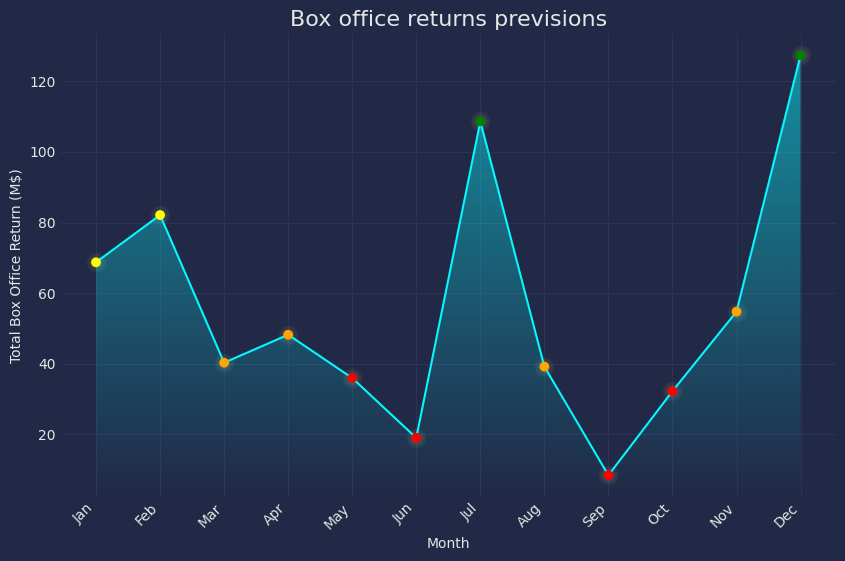
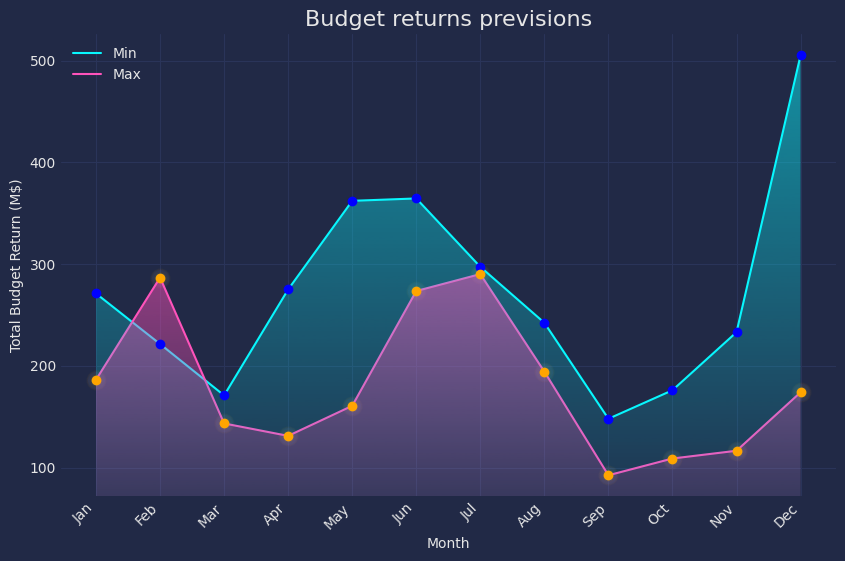
integrating budget into web application

diff --git a/src/Deploy/8_deploy_model.py b/src/Deploy/8_deploy_model.py
@@ -1,8 +1,10 @@
 import os
 import json 
 import joblib
+import hashlib
 import numpy as np
 import mplcyberpunk
+from datetime import datetime
 import matplotlib.pyplot as plt
 from sklearn.decomposition import PCA
 
@@ -33,7 +35,7 @@ def load_model_from_joblib(file_path):
         print(f"Error loading the model from {file_path}: {e}")
         return None
 
-def encode_categorical_features(true_features, json_filename='src/Deploy/column_names.json'):
+def encode_categorical_features(true_features, json_filename='/workspaces/8INF972_Atelier_pratique_AI/src/Deploy/column_names.json'):
     # Load all_features from the JSON file
     with open(json_filename, 'r') as json_file:
         all_features = json.load(json_file)
@@ -64,45 +66,49 @@ def scale_numerical_inputs(numerical_inputs):
 
     return scaled_array
 
-def plot_box_office_returns(box_office_values):
+def plot_budget_returns(budget_min, budget_max):
     # Assuming you have 12 months in a year
     months = ["Jan", "Feb", "Mar", "Apr", "May", "Jun", "Jul", "Aug", "Sep", "Oct", "Nov", "Dec"]
 
-    # Check if the length of the input list matches the number of months
-    if len(box_office_values) != len(months):
+    # Check if the length of the input lists matches the number of months
+    if len(budget_min) != len(months) or len(budget_max) != len(months):
         raise ValueError("Number of values should match the number of months (12).")
 
     # Plotting
     plt.figure(figsize=(10, 6))
     plt.style.use('cyberpunk')
-    box_office_values = np.array(box_office_values) / 1e6
-    sorted_indices = np.argsort(box_office_values)
 
-    # Initialize an array of default colors
-    colors = [None] * box_office_values.shape[0]
+    # Convert values to millions for better readability
+    budget_min = np.array(budget_min) / 1e6
+    budget_max = np.array(budget_max) / 1e6
 
-    for i in sorted_indices[:4]:
-        colors[i] = 'red'
-    for i in sorted_indices[4:8]:
-        colors[i] = 'orange'
-    for i in sorted_indices[8:10]:
-        colors[i] = 'yellow'
-    for i in sorted_indices[10:]:
-        colors[i] = 'green'
+    # Plot the minimum values
+    plt.plot(months, budget_min, linestyle='-', label='Box Office with Minimum Budget', zorder=2)
+    plt.scatter(months, budget_min, c='blue', zorder=3)
 
-    plt.plot(months, box_office_values, linestyle='-', zorder = 2)
-    plt.scatter(months, box_office_values, c = colors, zorder = 3)
+    # Plot the maximum values
+    plt.plot(months, budget_max, linestyle='-', label='Box Office with Maximum Budget', zorder=2)
+    plt.scatter(months, budget_max, c='orange', zorder=3)
+
     mplcyberpunk.make_scatter_glow()
     mplcyberpunk.add_gradient_fill(alpha_gradientglow=0.5, gradient_start='zero')
-    plt.title("Box office returns previsions", fontsize=16)
+    
+    # Generate a unique title using hash function and current time
+    random_input = np.random.random()
+    current_time = datetime.now().strftime("%Y-%m-%d %H:%M:%S")
+    unique_title = hashlib.sha256(f"{random_input}{current_time}".encode()).hexdigest()[:8]
+    
     plt.xticks(rotation=45, ha='right')
     plt.xlabel("Month")
-    plt.ylabel("Total Box Office Return (M$)")
+    plt.ylabel("Total Budget Return (M$)")
+    plt.legend()  # Add legend to distinguish between the two sets
     plt.grid(True)
-    plt.show()
     
-    plt.savefig('src/Deploy/plot.png', bbox_inches='tight')  # Save the plot as an image
+    # Save the plot with the unique title
+    plot_filename = f'/workspaces/8INF972_Atelier_pratique_AI/src/graphs/plot_{unique_title}.png'
+    plt.savefig(plot_filename, bbox_inches='tight')
 
+    return plot_filename
 
 def predict(year: int, budget: int, duration: int, Genres: [], MPAA_rating: [], Keywords: [], Source: [], Production_Method: [], Creative_type: [], Countries: []):
     
@@ -140,11 +146,11 @@ def predict(year: int, budget: int, duration: int, Genres: [], MPAA_rating: [], 
         #print(f"Input vector shape {input_vector.shape}")
 
         #Applying PCA
-        pca = joblib.load('src/Deploy/pca_model.joblib')
+        pca = joblib.load('/workspaces/8INF972_Atelier_pratique_AI/src/Deploy/pca_model.joblib')
         input_vector_PCA = pca.transform(input_vector)
 
         #Using model
-        model_path = 'src/Deploy/KNN_best_model.pkl'
+        model_path = '/workspaces/8INF972_Atelier_pratique_AI/src/Deploy/KNN_best_model.pkl'
         loaded_model = load_model_from_joblib(model_path)
 
         # Now you can use the loaded_model for predictions on the input_vector
@@ -157,6 +163,31 @@ def predict(year: int, budget: int, duration: int, Genres: [], MPAA_rating: [], 
     return box_office_list
 
 
+def get_box_office_min_max(year: int, budget_min: int, budget_max: int, duration: int, Genres: [], MPAA_rating: [], Keywords: [], Source: [], Production_Method: [], Creative_type: [], Countries: []):
+    # Call predict method for budget_min
+    budget_min_values = predict(year, budget_min, duration, Genres, MPAA_rating, Keywords, Source, Production_Method, Creative_type, Countries)
 
+    # Call predict method for budget_max
+    budget_max_values = predict(year, budget_max, duration, Genres, MPAA_rating, Keywords, Source, Production_Method, Creative_type, Countries)
 
+    file_path = plot_budget_returns(budget_min_values, budget_max_values)
+
+    return file_path
+
+# Example usage:
+year = 2023
+budget_max = 100000000  # Replace with your actual budget value
+budget_min = 150000000  # Replace with your actual budget value
+
+duration = 120  # Replace with your actual duration value
+Genres = ['Action', 'Adventure']
+MPAA_rating = ['PG-13']
+Keywords = ['superhero', 'villain']
+Source = ['Original screenplay']
+Production_Method = ['Live action']
+Creative_type = ['Super Hero']
+Countries = ['United States']
+
+file_path = get_box_office_min_max(year, budget_min, budget_max, duration, Genres, 
+                                            MPAA_rating, Keywords, Source, Production_Method, Creative_type, Countries)
 
